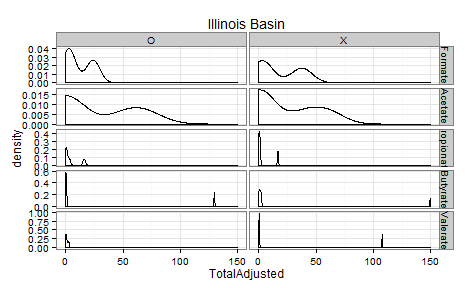
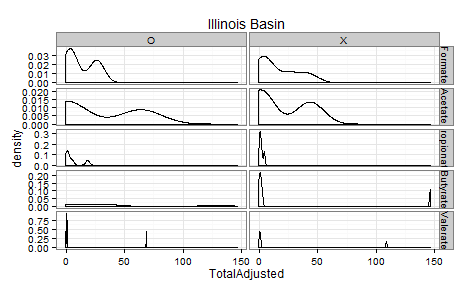
Updating SEM results with new data

diff --git a/Analysis/IllinoisSemCorrelations/IllinoisSemCorrelations.html b/Analysis/IllinoisSemCorrelations/IllinoisSemCorrelations.html
@@ -261,7 +261,7 @@ dsWideIllinois &lt;- dsWide[dsWide$Basin==&quot;Illinois Basin&quot;, ]
   labs(title=&quot;Illinois Basin&quot;)
 </code></pre>
 
[2 lines of base64/hex data omitted]
 
 <pre><code class="r">ggplot(dsLongIllinois, aes(x=QuantityMcrGenes)) + 
   geom_density() +
@@ -340,9 +340,9 @@ lavaan (0.5-17) converged normally after  20 iterations
   Number of observations                            14
 
   Estimator                                         ML
-  Minimum Function Test Statistic                6.012
+  Minimum Function Test Statistic                9.622
   Degrees of freedom                                 3
-  P-value (Chi-square)                           0.111
+  P-value (Chi-square)                           0.022
 
 Parameter estimates:
 
@@ -359,14 +359,14 @@ Latent variables:
 
 Regressions:
   Total ~
-    Quantity          0.501    2.750    0.182    0.856
+    Quantity          0.635    2.902    0.219    0.827
 
 Variances:
     Total             1.000
     Quantity          1.000
     QuantityZ1        0.000
-    TotalAdjustd1   146.755   55.845
-    TotalAdjustd2   367.132  139.138
+    TotalAdjustd1   179.645   68.276
+    TotalAdjustd2   334.486  126.800
 
 ============  Acetate  ==============
 </code></pre>
@@ -375,14 +375,14 @@ Variances:
 variances are (at least) a factor 1000 times larger than others; use varTable(fit) to investigate
 </code></pre>
 
-<pre><code>lavaan (0.5-17) converged normally after  21 iterations
+<pre><code>lavaan (0.5-17) converged normally after  22 iterations
 
   Number of observations                            14
 
   Estimator                                         ML
-  Minimum Function Test Statistic                7.081
+  Minimum Function Test Statistic                1.251
   Degrees of freedom                                 3
-  P-value (Chi-square)                           0.069
+  P-value (Chi-square)                           0.741
 
 Parameter estimates:
 
@@ -399,14 +399,14 @@ Latent variables:
 
 Regressions:
   Total ~
-    Quantity         -2.261    6.029   -0.375    0.708
+    Quantity         -1.405    7.327   -0.192    0.848
 
 Variances:
     Total             1.000
     Quantity          1.000
     QuantityZ1        0.000
-    TotalAdjustd1   844.696  319.643
-    TotalAdjustd2  1273.807  481.831
+    TotalAdjustd1  1696.195  641.479
+    TotalAdjustd2  1346.234  509.206
 
 ============  Propionate  ==============
 </code></pre>
@@ -415,12 +415,12 @@ Variances:
 variances are (at least) a factor 1000 times larger than others; use varTable(fit) to investigate
 </code></pre>
 
-<pre><code>lavaan (0.5-17) converged normally after  21 iterations
+<pre><code>lavaan (0.5-17) converged normally after  22 iterations
 
   Number of observations                            14
 
   Estimator                                         ML
-  Minimum Function Test Statistic               49.296
+  Minimum Function Test Statistic               36.448
   Degrees of freedom                                 3
   P-value (Chi-square)                           0.000
 
@@ -439,14 +439,14 @@ Latent variables:
 
 Regressions:
   Total ~
-    Quantity         -3.574    8.212   -0.435    0.663
+    Quantity         -3.119    8.514   -0.366    0.714
 
 Variances:
     Total             1.000
     Quantity          1.000
     QuantityZ1        0.000
-    TotalAdjustd1  1639.293  619.972
-    TotalAdjustd2  2221.191  839.909
+    TotalAdjustd1  1808.216  683.819
+    TotalAdjustd2  2307.821  872.652
 
 ============  Butyrate  ==============
 </code></pre>
@@ -455,12 +455,12 @@ Variances:
 variances are (at least) a factor 1000 times larger than others; use varTable(fit) to investigate
 </code></pre>
 
-<pre><code>lavaan (0.5-17) converged normally after  21 iterations
+<pre><code>lavaan (0.5-17) converged normally after  23 iterations
 
   Number of observations                            14
 
   Estimator                                         ML
-  Minimum Function Test Statistic               26.722
+  Minimum Function Test Statistic               23.541
   Degrees of freedom                                 3
   P-value (Chi-square)                           0.000
 
@@ -479,14 +479,14 @@ Latent variables:
 
 Regressions:
   Total ~
-    Quantity        -12.653   12.707   -0.996    0.319
+    Quantity         -8.544   12.788   -0.668    0.504
 
 Variances:
     Total             1.000
     Quantity          1.000
     QuantityZ1        0.000
-    TotalAdjustd1  4369.617 1651.938
-    TotalAdjustd2  4679.467 1769.050
+    TotalAdjustd1  4312.738 1630.439
+    TotalAdjustd2  4874.870 1842.906
 
 ============  Valerate  ==============
 </code></pre>
@@ -500,7 +500,7 @@ variances are (at least) a factor 1000 times larger than others; use varTable(fi
   Number of observations                            14
 
   Estimator                                         ML
-  Minimum Function Test Statistic               23.899
+  Minimum Function Test Statistic               29.118
   Degrees of freedom                                 3
   P-value (Chi-square)                           0.000
 
@@ -519,14 +519,14 @@ Latent variables:
 
 Regressions:
   Total ~
-    Quantity        -12.832   14.149   -0.907    0.364
+    Quantity        -14.484   13.999   -1.035    0.301
 
 Variances:
     Total             1.000
     Quantity          1.000
     QuantityZ1        0.000
-    TotalAdjustd1  4632.955 1751.470
-    TotalAdjustd2  7088.595 2679.615
+    TotalAdjustd1  4457.782 1685.261
+    TotalAdjustd2  7128.493 2694.695
 </code></pre>
 
 <pre><code class="r"># # fit &lt;- sem(model, data = dsWide)
@@ -551,7 +551,7 @@ Variances:
 
 <p>For the sake of documentation and reproducibility, the current report was build on a system using the following software.</p>
 
-<pre><code>Report created by Will at 2014-12-18, 10:06 -0600
+<pre><code>Report created by Will at 2014-12-18, 11:18 -0600
 </code></pre>
 
 <pre><code>R version 3.1.2 Patched (2014-12-11 r67168)

diff --git a/Analysis/IllinoisSemCorrelations/IllinoisSemCorrelations.md b/Analysis/IllinoisSemCorrelations/IllinoisSemCorrelations.md
@@ -171,9 +171,9 @@ lavaan (0.5-17) converged normally after  20 iterations
   Number of observations                            14
 
   Estimator                                         ML
-  Minimum Function Test Statistic                6.012
+  Minimum Function Test Statistic                9.622
   Degrees of freedom                                 3
-  P-value (Chi-square)                           0.111
+  P-value (Chi-square)                           0.022
 
 Parameter estimates:
 
@@ -190,14 +190,14 @@ Latent variables:
 
 Regressions:
   Total ~
-    Quantity          0.501    2.750    0.182    0.856
+    Quantity          0.635    2.902    0.219    0.827
 
 Variances:
     Total             1.000
     Quantity          1.000
     QuantityZ1        0.000
-    TotalAdjustd1   146.755   55.845
-    TotalAdjustd2   367.132  139.138
+    TotalAdjustd1   179.645   68.276
+    TotalAdjustd2   334.486  126.800
 
 ============  Acetate  ==============
 ```
@@ -208,14 +208,14 @@ variances are (at least) a factor 1000 times larger than others; use varTable(fi
 ```
 
 ```
-lavaan (0.5-17) converged normally after  21 iterations
+lavaan (0.5-17) converged normally after  22 iterations
 
   Number of observations                            14
 
   Estimator                                         ML
-  Minimum Function Test Statistic                7.081
+  Minimum Function Test Statistic                1.251
   Degrees of freedom                                 3
-  P-value (Chi-square)                           0.069
+  P-value (Chi-square)                           0.741
 
 Parameter estimates:
 
@@ -232,14 +232,14 @@ Latent variables:
 
 Regressions:
   Total ~
-    Quantity         -2.261    6.029   -0.375    0.708
+    Quantity         -1.405    7.327   -0.192    0.848
 
 Variances:
     Total             1.000
     Quantity          1.000
     QuantityZ1        0.000
-    TotalAdjustd1   844.696  319.643
-    TotalAdjustd2  1273.807  481.831
+    TotalAdjustd1  1696.195  641.479
+    TotalAdjustd2  1346.234  509.206
 
 ============  Propionate  ==============
 ```
@@ -250,12 +250,12 @@ variances are (at least) a factor 1000 times larger than others; use varTable(fi
 ```
 
 ```
-lavaan (0.5-17) converged normally after  21 iterations
+lavaan (0.5-17) converged normally after  22 iterations
 
   Number of observations                            14
 
   Estimator                                         ML
-  Minimum Function Test Statistic               49.296
+  Minimum Function Test Statistic               36.448
   Degrees of freedom                                 3
   P-value (Chi-square)                           0.000
 
@@ -274,14 +274,14 @@ Latent variables:
 
 Regressions:
   Total ~
-    Quantity         -3.574    8.212   -0.435    0.663
+    Quantity         -3.119    8.514   -0.366    0.714
 
 Variances:
     Total             1.000
     Quantity          1.000
     QuantityZ1        0.000
-    TotalAdjustd1  1639.293  619.972
-    TotalAdjustd2  2221.191  839.909
+    TotalAdjustd1  1808.216  683.819
+    TotalAdjustd2  2307.821  872.652
 
 ============  Butyrate  ==============
 ```
@@ -292,12 +292,12 @@ variances are (at least) a factor 1000 times larger than others; use varTable(fi
 ```
 
 ```
-lavaan (0.5-17) converged normally after  21 iterations
+lavaan (0.5-17) converged normally after  23 iterations
 
   Number of observations                            14
 
   Estimator                                         ML
-  Minimum Function Test Statistic               26.722
+  Minimum Function Test Statistic               23.541
   Degrees of freedom                                 3
   P-value (Chi-square)                           0.000
 
@@ -316,14 +316,14 @@ Latent variables:
 
 Regressions:
   Total ~
-    Quantity        -12.653   12.707   -0.996    0.319
+    Quantity         -8.544   12.788   -0.668    0.504
 
 Variances:
     Total             1.000
     Quantity          1.000
     QuantityZ1        0.000
-    TotalAdjustd1  4369.617 1651.938
-    TotalAdjustd2  4679.467 1769.050
+    TotalAdjustd1  4312.738 1630.439
+    TotalAdjustd2  4874.870 1842.906
 
 ============  Valerate  ==============
 ```
@@ -339,7 +339,7 @@ lavaan (0.5-17) converged normally after  22 iterations
   Number of observations                            14
 
   Estimator                                         ML
-  Minimum Function Test Statistic               23.899
+  Minimum Function Test Statistic               29.118
   Degrees of freedom                                 3
   P-value (Chi-square)                           0.000
 
@@ -358,14 +358,14 @@ Latent variables:
 
 Regressions:
   Total ~
-    Quantity        -12.832   14.149   -0.907    0.364
+    Quantity        -14.484   13.999   -1.035    0.301
 
 Variances:
     Total             1.000
     Quantity          1.000
     QuantityZ1        0.000
-    TotalAdjustd1  4632.955 1751.470
-    TotalAdjustd2  7088.595 2679.615
+    TotalAdjustd1  4457.782 1685.261
+    TotalAdjustd2  7128.493 2694.695
 ```
 
 ```r
@@ -385,7 +385,7 @@ For the sake of documentation and reproducibility, the current report was build 
 
 
 ```
-Report created by Will at 2014-12-18, 10:06 -0600
+Report created by Will at 2014-12-18, 11:18 -0600
 ```
 
 ```
